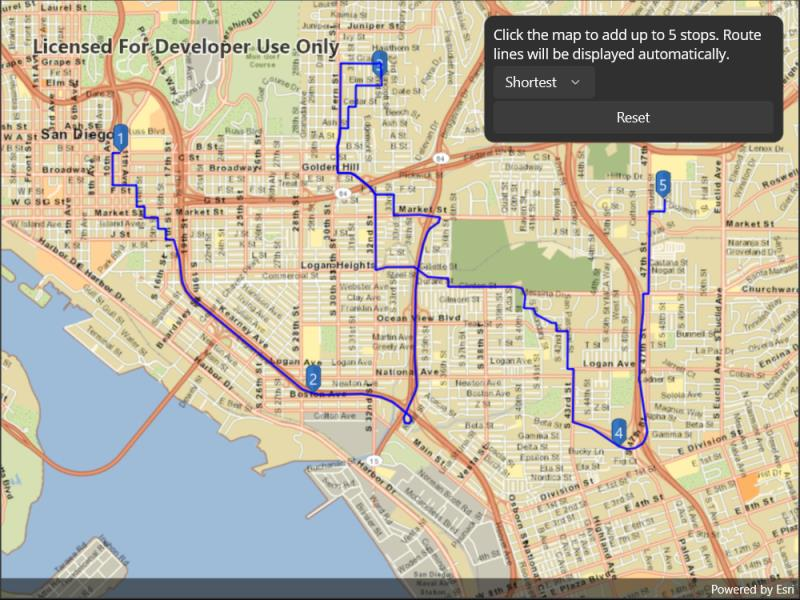
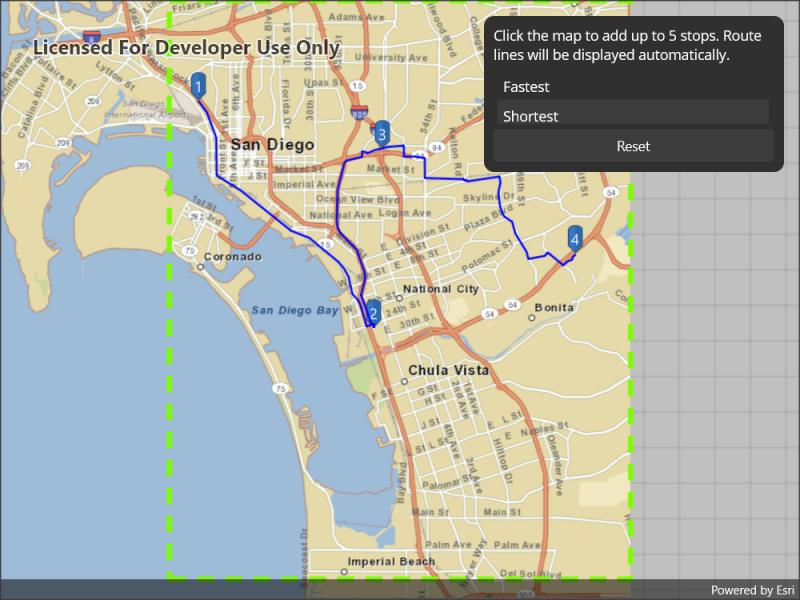
Updated samples

diff --git a/src/MAUI/Maui.Samples/Samples/NetworkAnalysis/OfflineRouting/OfflineRouting.xaml b/src/MAUI/Maui.Samples/Samples/NetworkAnalysis/OfflineRouting/OfflineRouting.xaml
@@ -2,6 +2,7 @@
              xmlns="http://schemas.microsoft.com/dotnet/2021/maui"
              xmlns:x="http://schemas.microsoft.com/winfx/2009/xaml"
              xmlns:esriUI="clr-namespace:Esri.ArcGISRuntime.Maui;assembly=Esri.ArcGISRuntime.Maui"
+             xmlns:networkAnalysis="clr-namespace:Esri.ArcGISRuntime.Tasks.NetworkAnalysis;assembly=Esri.ArcGISRuntime"
              xmlns:resources="clr-namespace:ArcGIS.Resources">
     <Grid Style="{DynamicResource EsriSampleContainer}">
         <esriUI:MapView x:Name="MyMapView" Style="{DynamicResource EsriSampleGeoView}" />
@@ -10,11 +11,21 @@
                   MaximumWidthRequest="300"
                   RowDefinitions="auto,auto,auto"
                   RowSpacing="3">
-                <Label Grid.Row="0" Text="Click the map to add up to 5 stops. Route lines will be displayed automatically." HeightRequest="{OnPlatform iOS=50}" />
-                <Picker x:Name="TravelModesCombo"
-                        Grid.Row="1"
-                        HorizontalOptions="FillAndExpand"
-                        ItemDisplayBinding="{Binding Name}" />
+                <Label Grid.Row="0"
+                       HeightRequest="{OnPlatform iOS=50}"
+                       Text="Click the map to add up to 5 stops. Route lines will be displayed automatically." />
+                <CollectionView x:Name="TravelModesCollection"
+                                Grid.Row="1"
+                                HorizontalOptions="FillAndExpand"
+                                SelectionMode="Single">
+                    <CollectionView.ItemTemplate>
+                        <!--  https://github.com/dotnet/maui/issues/20002  -->
+                        <!--  DataType needs to be explicitly set to display DataTemplate content in release mode configuration  -->
+                        <DataTemplate x:DataType="{x:Type networkAnalysis:TravelMode}">
+                            <Label Margin="5" Text="{Binding Name}" />
+                        </DataTemplate>
+                    </CollectionView.ItemTemplate>
+                </CollectionView>
                 <Button Grid.Row="2"
                         Clicked="ResetButton_Click"
                         Text="Reset" />

diff --git a/src/MAUI/Maui.Samples/Samples/Map/CreateDynamicBasemapGallery/CreateDynamicBasemapGallery.xaml b/src/MAUI/Maui.Samples/Samples/Map/CreateDynamicBasemapGallery/CreateDynamicBasemapGallery.xaml
@@ -2,7 +2,8 @@
 <ContentPage x:Class="ArcGIS.Samples.CreateDynamicBasemapGallery.CreateDynamicBasemapGallery"
              xmlns="http://schemas.microsoft.com/dotnet/2021/maui"
              xmlns:x="http://schemas.microsoft.com/winfx/2009/xaml"
-             xmlns:esriUI="clr-namespace:Esri.ArcGISRuntime.Maui;assembly=Esri.ArcGISRuntime.Maui">
+             xmlns:esriUI="clr-namespace:Esri.ArcGISRuntime.Maui;assembly=Esri.ArcGISRuntime.Maui"
+             xmlns:mapping="clr-namespace:Esri.ArcGISRuntime.Mapping;assembly=Esri.ArcGISRuntime">
     <Grid>
         <esriUI:MapView x:Name="MyMapView" />
         <Button x:Name="ShowGalleryButton"
@@ -43,7 +44,9 @@
                             SelectionChanged="BasemapStyleGallery_SelectionChanged"
                             SelectionMode="Single">
                 <CollectionView.ItemTemplate>
-                    <DataTemplate>
+                    <!--  https://github.com/dotnet/maui/issues/20002  -->
+                    <!--  DataType needs to be explicitly set to display DataTemplate content in release mode configuration  -->
+                    <DataTemplate x:DataType="{x:Type mapping:BasemapStyleInfo}">
                         <StackLayout Margin="5">
                             <Label FontAttributes="Bold" Text="{Binding StyleName}" />
                             <Image HeightRequest="{OnIdiom Default=200,

diff --git a/src/MAUI/Maui.Samples/Samples/Map/MapReferenceScale/MapReferenceScale.xaml b/src/MAUI/Maui.Samples/Samples/Map/MapReferenceScale/MapReferenceScale.xaml
@@ -3,6 +3,7 @@
              xmlns="http://schemas.microsoft.com/dotnet/2021/maui"
              xmlns:x="http://schemas.microsoft.com/winfx/2009/xaml"
              xmlns:esriUI="clr-namespace:Esri.ArcGISRuntime.Maui;assembly=Esri.ArcGISRuntime.Maui"
+             xmlns:mapping="clr-namespace:Esri.ArcGISRuntime.Mapping;assembly=Esri.ArcGISRuntime"
              xmlns:resources="clr-namespace:ArcGIS.Resources">
     <Grid Style="{DynamicResource EsriSampleContainer}">
         <esriUI:MapView x:Name="MyMapView" Style="{DynamicResource EsriSampleGeoView}" />
@@ -26,7 +27,9 @@
                               SelectionMode="None"
                               VerticalOptions="Center">
                         <ListView.ItemTemplate>
-                            <DataTemplate>
+                            <!--  https://github.com/dotnet/maui/issues/20002  -->
+                            <!--  DataType needs to be explicitly set to display DataTemplate content in release mode configuration  -->
+                            <DataTemplate x:DataType="{x:Type mapping:FeatureLayer}">
                                 <ViewCell>
                                     <!--
                                         When the user interacts with the switch,

diff --git a/src/MAUI/Maui.Samples/Samples/Layers/BrowseOAFeatureService/BrowseOAFeatureService.xaml b/src/MAUI/Maui.Samples/Samples/Layers/BrowseOAFeatureService/BrowseOAFeatureService.xaml
@@ -1,6 +1,7 @@
 <ContentPage x:Class="ArcGIS.Samples.BrowseOAFeatureService.BrowseOAFeatureService"
              xmlns="http://schemas.microsoft.com/dotnet/2021/maui"
              xmlns:x="http://schemas.microsoft.com/winfx/2009/xaml"
+             xmlns:esriOgc="clr-namespace:Esri.ArcGISRuntime.Ogc;assembly=Esri.ArcGISRuntime"
              xmlns:esriUI="clr-namespace:Esri.ArcGISRuntime.Maui;assembly=Esri.ArcGISRuntime.Maui"
              xmlns:resources="clr-namespace:ArcGIS.Resources">
     <Grid Style="{DynamicResource EsriSampleContainer}">
@@ -27,7 +28,9 @@
                           SelectionMode="Single">
                     <ListView.ItemTemplate>
                         <DataTemplate>
-                            <TextCell Text="{Binding Title}" />
+                            <!--  https://github.com/dotnet/maui/issues/20002  -->
+                            <!--  DataType needs to be explicitly set to display DataTemplate content in release mode configuration  -->
+                            <TextCell x:DataType="{x:Type esriOgc:OgcFeatureCollectionInfo}" Text="{Binding Title}" />
                         </DataTemplate>
                     </ListView.ItemTemplate>
                 </ListView>

diff --git a/src/MAUI/Maui.Samples/Samples/Layers/BrowseWfsLayers/BrowseWfsLayers.xaml b/src/MAUI/Maui.Samples/Samples/Layers/BrowseWfsLayers/BrowseWfsLayers.xaml
@@ -2,6 +2,7 @@
 <ContentPage x:Class="ArcGIS.Samples.BrowseWfsLayers.BrowseWfsLayers"
              xmlns="http://schemas.microsoft.com/dotnet/2021/maui"
              xmlns:x="http://schemas.microsoft.com/winfx/2009/xaml"
+             xmlns:esriOgc="clr-namespace:Esri.ArcGISRuntime.Ogc;assembly=Esri.ArcGISRuntime"
              xmlns:esriUI="clr-namespace:Esri.ArcGISRuntime.Maui;assembly=Esri.ArcGISRuntime.Maui">
     <Grid Style="{DynamicResource EsriSampleContainer}">
         <esriUI:MapView x:Name="MyMapView" Style="{DynamicResource EsriSampleGeoView}" />
@@ -18,7 +19,9 @@
                           SelectionMode="Single">
                     <ListView.ItemTemplate>
                         <DataTemplate>
-                            <TextCell Text="{Binding Title}" />
+                            <!--  https://github.com/dotnet/maui/issues/20002  -->
+                            <!--  DataType needs to be explicitly set to display DataTemplate content in release mode configuration  -->
+                            <TextCell x:DataType="{x:Type esriOgc:WfsLayerInfo}" Text="{Binding Title}" />
                         </DataTemplate>
                     </ListView.ItemTemplate>
                 </ListView>

diff --git a/src/MAUI/Maui.Samples/Samples/NetworkAnalysis/OfflineRouting/OfflineRouting.xaml.cs b/src/MAUI/Maui.Samples/Samples/NetworkAnalysis/OfflineRouting/OfflineRouting.xaml.cs
@@ -94,8 +94,8 @@ namespace ArcGIS.Samples.OfflineRouting
                 _availableTravelModes = _offlineRouteTask.RouteTaskInfo.TravelModes.ToList();
 
                 // Update the UI with the travel modes list.
-                TravelModesCombo.ItemsSource = _availableTravelModes.ToList();
-                TravelModesCombo.SelectedIndex = 0;
+                TravelModesCollection.ItemsSource = _availableTravelModes.ToList();
+                TravelModesCollection.SelectedItem = _availableTravelModes.First();
 
                 // Create the default parameters.
                 _offlineRouteParameters = await _offlineRouteTask.CreateDefaultParametersAsync();
@@ -105,7 +105,7 @@ namespace ArcGIS.Samples.OfflineRouting
 
                 // Now that the sample is ready, hook up the tap event.
                 MyMapView.GeoViewTapped += MapView_Tapped;
-                TravelModesCombo.SelectedIndexChanged += TravelMode_SelectionChanged;
+                TravelModesCollection.SelectionChanged += TravelModesCollection_SelectionChanged;
             }
             catch (Exception e)
             {
@@ -254,32 +254,32 @@ namespace ArcGIS.Samples.OfflineRouting
             _ = AddStop(e.Position);
 
             // Update the route with the final list of stops.
-            _ = UpdateRoute((TravelMode)TravelModesCombo.SelectedItem);
+            _ = UpdateRoute((TravelMode)TravelModesCollection.SelectedItem);
         }
 
-        private void TravelMode_SelectionChanged(object sender, EventArgs e)
+        private void ShowMessage(string title, string detail)
+        {
+            Application.Current.MainPage.DisplayAlert(title, detail, "OK");
+        }
+
+        private void TravelModesCollection_SelectionChanged(object sender, SelectionChangedEventArgs e)
         {
             try
             {
                 // Enforce selection to prevent errors.
-                if (TravelModesCombo.SelectedItem == null)
+                if (TravelModesCollection.SelectedItem == null)
                 {
-                    TravelModesCombo.SelectedItem = _availableTravelModes.First();
+                    TravelModesCollection.SelectedItem = _availableTravelModes.First();
                 }
 
                 // Update the route.
-                _ = UpdateRoute((TravelMode)TravelModesCombo.SelectedItem);
+                _ = UpdateRoute((TravelMode)TravelModesCollection.SelectedItem);
             }
             catch (Exception ex)
             {
                 System.Diagnostics.Debug.WriteLine(ex);
                 ShowMessage("Couldn't change travel mode", "Couldn't change travel mode. See debug output for details.");
             }
-        }
-
-        private void ShowMessage(string title, string detail)
-        {
-            Application.Current.MainPage.DisplayAlert(title, detail, "OK");
         }
     }
 }
